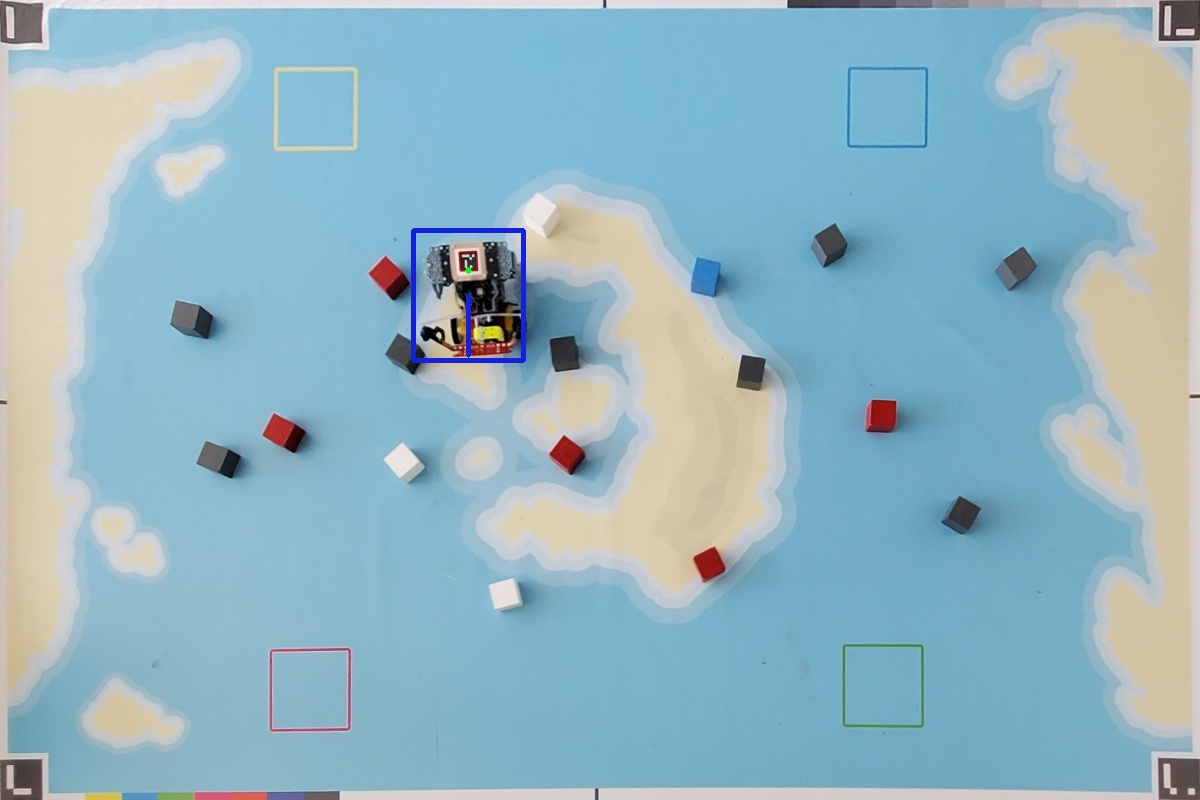
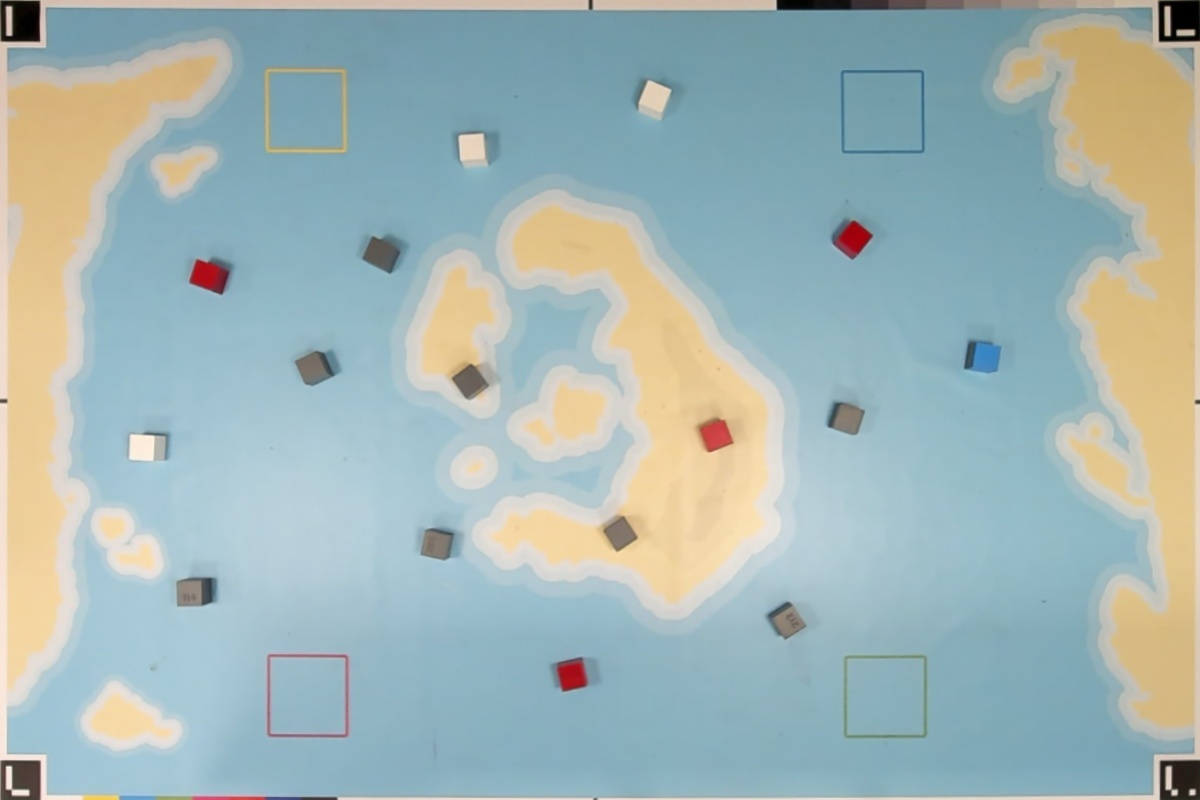
Modifications pour camera final

diff --git a/pythonProject/main.py b/pythonProject/main.py
@@ -78,7 +78,7 @@ def get_mean_hsv(image, center):
     x, y = center
     hsv_image = cv2.cvtColor(image, cv2.COLOR_BGR2HSV)
     circle_mask = np.zeros_like(hsv_image[:, :, 0], dtype=np.uint8)
-    cv2.circle(circle_mask, center, 3, 255, -1)
+    cv2.circle(circle_mask, center, 2, 255, -1)
     mean_hsv = cv2.mean(hsv_image, mask=circle_mask)[:3]
     return tuple(map(round, mean_hsv))
 
@@ -89,7 +89,7 @@ def get_mean_bgr(image, center):
     x, y = center
     bgr_image = image
     circle_mask = np.zeros_like(bgr_image[:, :, 0], dtype=np.uint8)
-    cv2.circle(circle_mask, center, 3, 255, -1)
+    cv2.circle(circle_mask, center, 2, 255, -1)
     mean_bgr = cv2.mean(bgr_image, mask=circle_mask)[:3]
     return tuple(map(round, mean_bgr))
 
@@ -131,19 +131,19 @@ parameters = aruco.DetectorParameters()
 detector = aruco.ArucoDetector(aruco_dict, parameters)
 
 nomImages = (
-    "Images\PhotoCam2_1.jpg",  # cpt =  0
-    "Images\PhotoCarteRobot5.jpg",  # cpt =  1
-    "Images\PhotoCarteRobot9.jpg",  # cpt =  2
-    "Images\PhotoCarteRobot1.jpg",  # cpt =  3
-    "Images\PhotoCarteRobot2.jpg",  # cpt =  4
-    "Images\PhotoCarteRobot3.jpg",  # cpt =  5
-    "Images\PhotoCarteRobot6.jpg",  # cpt =  6
-    "Images\PhotoCarteRobot8.jpg",  # cpt =  7
-    "Images\PhotoCarteRobot10.jpg",  # cpt =  8
-    "Images\ConfigBlocsAvecArucoCote1.jpg",  # cpt =  9
-    "Images\PhotoCarteTelephone5.jpg",  # cpt =  10
-    "Images\PhotoCarteRobot11.jpg",  # cpt =  11
-    "Images\ConfigBlocsAvecArucoDessusLoin1.jpg")  # cpt =  12
+    "Images/Photo_Cam_finale_1.jpg",  # cpt =  0
+    "Images/Photo_Cam_finale_2.jpg",  # cpt =  1
+    "Images/Photo_Cam_finale_3.jpg",  # cpt =  2
+    "Images/Photo_Cam_finale_4.jpg",  # cpt =  3
+    "Images/Photo_Cam_finale_5.jpg",  # cpt =  4
+    "Images/Photo_Cam_finale_6.jpg",  # cpt =  5
+    "Images/Photo_Cam_finale_7.jpg",  # cpt =  6
+    "Images/Photo_Cam_finale_8.jpg",  # cpt =  7
+    "Images/PhotoCarteRobot9.jpg",  # cpt =  8
+    "Images/Photo_Cam_finale_10.jpg",  # cpt =  9
+    "Images/Photo_Cam_finale_11.jpg",  # cpt =  10
+    "Images/Photo_Cam_finale_12.jpg")  # cpt =  11
+
 nbImages = len(nomImages)
 
 frame = cv2.imread(nomImages[0])
@@ -156,7 +156,7 @@ rectangles = [
     ((224, 21), (309, 106), (167, 3, 255))  # Yellow zone
 ]
 
-cpt = 2
+cpt = 5
 
 while True:
     if TEST == 0:
@@ -297,70 +297,47 @@ while True:
 
         cv2.imshow("Cache", vector_img)
 
-        # Open the image
-        image = cv2.imread(
-            "Images/Transformed_image.jpg")
-
-        # Define the dimensions of the centered rectangle
-        crop_width = 1110
-        crop_height = 710
-
-        # Calculate the coordinates for cropping
-        left = (image.shape[1] - crop_width) // 2
-        top = (image.shape[0] - crop_height) // 2
-        right = left + crop_width
-        bottom = top + crop_height
-
-        # Crop the image
-        cropped_image = image[top:bottom, left:right]
-
+        Cal_img = dst.copy()
         # Draw the zones
-        cv2.rectangle(cropped_image, (224, 605), (309, 690), (0, 0, 255), 3)  # Red zone
-        cv2.rectangle(cropped_image, (806, 21), (883, 106), (255, 0, 0), 3)  # Blue zone
-        cv2.rectangle(cropped_image, (806, 605), (883, 690), (0, 255, 0), 3)  # Green zone
-        cv2.rectangle(cropped_image, (224, 21), (309, 106), (0, 242, 255), 3)  # Yellow zone
-
-        # Save the cropped image
-        cv2.imwrite("Images/cropped_frame.jpg", cropped_image)
+        cv2.rectangle(dst, (1150, 50), (1200, 0), (0, 0, 0), -1)
+        cv2.rectangle(dst, (1150, 750), (1200, 800), (0, 0, 0), -1)
+        cv2.rectangle(dst, (0, 0), (50, 50), (0, 0, 0), -1)
+        cv2.rectangle(dst, (0, 750), (50, 800), (0, 0, 0), -1)
+        cv2.rectangle(dst, (0, 0), (1200, 12), (0, 0, 0), -1)
+        cv2.rectangle(dst, (0, 0), (12, 800), (0, 0, 0), -1)
+        cv2.rectangle(dst, (1200, 800), (1188, 0), (0, 0, 0), -1)
+        cv2.rectangle(dst, (1200, 800), (0, 788), (0, 0, 0), -1)
 
         # Adding a Grid
         square_size = 10  # Size of each square in pixels
-        grid_img = dst.copy()
-
-        grid_img = Grid.add_grid(grid_img, square_size)
 
         # Displaying different results
-        '''cv2.imshow('Hitbox', dst)
-        cv2.imshow('Grid', grid_img)
-        cv2.rectangle(grid_img, (0, 0), final_size, (255, 255, 255), -1)
-        grid_img = Grid.add_grid(grid_img, square_size)
-        cv2.imshow('Grid', grid_img)'''
-
-        cv2.imshow('Cropped image', cropped_image)
+        cv2.imshow('Hitbox', dst)
 
         img_copy = dst.copy()
 
         # Define the centers of the circles
-        circle_centers = [(103, 797), (140, 797), (175, 797), (215, 797), (250, 797), (760, 3)]
-        circle_centers_grey = [(802, 3), (839, 3), (877, 3), (914, 3), (950, 3), (987, 3)]
-        circle_radius = 15
+        circle_centers = [(103, 798), (140, 798), (175, 798), (215, 798), (250, 799), (760, 3)]
+        circle_centers_grey = [(802, 2), (839, 2), (877, 2), (914, 2), (950, 2), (987, 2)]
+        circle_radius = 13
         # Get the mean HSV values for each circle
         mean_hsv_values = []
         # Get the mean BGR values for each circle
         mean_bgr_values = []
 
         for center in circle_centers:
-            mean_hsv = get_mean_hsv(dst, center)
+            mean_hsv = get_mean_hsv(Cal_img, center)
             mean_hsv_values.append(mean_hsv)
 
         for center_grey in circle_centers_grey:
-            mean_bgr = get_mean_bgr(dst, center_grey)
+            mean_bgr = get_mean_bgr(Cal_img, center_grey)
             mean_bgr_values.append(mean_bgr)
 
         # Print the mean HSV values
         for i in range(6):
-            '''print(f"Circle {i + 1}: Mean HSV = {mean_hsv_values[i][0]} / {mean_hsv_values[i][1]} / {mean_hsv_values[i][2]}")
-            print(f" Grey Circle {i + 1}: Mean BGR = {mean_bgr_values[i][0]} / {mean_bgr_values[i][1]} / {mean_bgr_values[i][2]}")
+            print(
+                f"Circle {i + 1}: Mean HSV = {mean_hsv_values[i][0]} / {mean_hsv_values[i][1]} / {mean_hsv_values[i][2]}")
+            '''print(f" Grey Circle {i + 1}: Mean BGR = {mean_bgr_values[i][0]} / {mean_bgr_values[i][1]} / {mean_bgr_values[i][2]}")
             print(f"\n")'''
             # Convert HSV mean values to BGR in order to draw on the frame 'img_copy'
             bgr_color = cv2.cvtColor(
@@ -374,97 +351,101 @@ while True:
 
         cv2.imshow("Color calibration", img_copy)
 
-        hsv_img = cv2.cvtColor(cropped_image, cv2.COLOR_BGR2HSV)
+        hsv_img = cv2.cvtColor(dst, cv2.COLOR_BGR2HSV)
+
         for i in range(6):
             # Definition of mask boundaries with the previously acquired mean values
             if i == 1:
                 # Blue
                 bound_lower = np.array(
-                    [mean_hsv_values[i][0] - 8, mean_hsv_values[i][1] - 15, mean_hsv_values[i][2] - 10])
-                bound_upper = np.array([mean_hsv_values[i][0] + 8, 255, 210])
+                    [mean_hsv_values[i][0] - 15, mean_hsv_values[i][1], 0])
+                bound_upper = np.array([mean_hsv_values[i][0] + 30, 255, 255])
                 blue_mask = cv2.inRange(hsv_img, bound_lower, bound_upper)
             elif i == 3:
                 # Magenta
                 bound_lower = np.array(
                     [mean_hsv_values[i][0] - 8, mean_hsv_values[i][1] - 100, 0])
-                bound_upper = np.array([mean_hsv_values[i][0] + 8, 255, 255])
+                bound_upper = np.array([255, 255, 255])
                 magenta_mask = cv2.inRange(hsv_img, bound_lower, bound_upper)
             elif i == 4:
                 # Red
                 bound_lower = np.array(
-                    [mean_hsv_values[i][0] - 20, mean_hsv_values[i][1] - 100, 0])
-                bound_upper = np.array([mean_hsv_values[i][0], 255, 255])
+                    [0, 130, 0])
+                bound_upper = np.array([35, 255, 255])
                 red_mask = cv2.inRange(hsv_img, bound_lower, bound_upper)
             elif i == 5:
                 # White
                 bound_lower = np.array(
-                    [0, 0, mean_hsv_values[i][2] + 10])
-                bound_upper = np.array([180, mean_hsv_values[i][2], 255])
+                    [0, 0, mean_hsv_values[i][2] + 25])
+                bound_upper = np.array([180, 255, 255])
                 white_mask = cv2.inRange(hsv_img, bound_lower, bound_upper)
+
             elif i == 2:
                 # Grey
                 bound_lower = np.array(
                     [mean_bgr_values[0][0] - 25, mean_bgr_values[0][1] - 25, mean_bgr_values[0][2] - 25])
                 bound_upper = np.array(
-                    [mean_bgr_values[3][0] - 5, mean_bgr_values[3][1] - 5, mean_bgr_values[3][1] - 5])
-                grey_mask = cv2.inRange(cropped_image, bound_lower, bound_upper)
+                    [mean_bgr_values[5][0] + 35, mean_bgr_values[5][1] + 35, mean_bgr_values[5][1] + 35])
+                grey_mask = cv2.inRange(dst, bound_lower, bound_upper)
 
-        kernel = np.ones((14, 14), np.uint8)
+        kernel = np.ones((13, 13), np.uint8)
         grey_kernel = np.ones((17, 17), np.uint8)
-        black_mask = cv2.inRange(cropped_image, (0, 0, 0), (1, 1, 1))
+        black_mask = cv2.inRange(dst, (0, 0, 0), (1, 1, 1))
 
         # Definition and displaying of different masks
         black_mask = cv2.morphologyEx(black_mask, cv2.MORPH_CLOSE, kernel)
         black_mask = cv2.morphologyEx(black_mask, cv2.MORPH_OPEN, kernel)
 
-        display_black_mask = cv2.bitwise_and(cropped_image, cropped_image, mask=black_mask)
+        display_black_mask = cv2.bitwise_and(dst, dst, mask=black_mask)
 
         blue_mask = cv2.morphologyEx(blue_mask, cv2.MORPH_CLOSE, kernel)
         blue_mask = cv2.morphologyEx(blue_mask, cv2.MORPH_OPEN, kernel)
 
-        display_blue_mask = cv2.bitwise_and(cropped_image, cropped_image, mask=blue_mask)
+        display_blue_mask = cv2.bitwise_and(dst, dst, mask=blue_mask)
 
         magenta_mask = cv2.morphologyEx(magenta_mask, cv2.MORPH_CLOSE, kernel)
         magenta_mask = cv2.morphologyEx(magenta_mask, cv2.MORPH_OPEN, kernel)
 
-        display_magenta_mask = cv2.bitwise_and(cropped_image, cropped_image, mask=magenta_mask)
+        display_magenta_mask = cv2.bitwise_and(dst, dst, mask=magenta_mask)
 
         red_mask = cv2.morphologyEx(red_mask, cv2.MORPH_CLOSE, kernel)
         red_mask = cv2.morphologyEx(red_mask, cv2.MORPH_OPEN, kernel)
 
-        display_red_mask = cv2.bitwise_and(cropped_image, cropped_image, mask=red_mask)
+        display_red_mask = cv2.bitwise_and(dst, dst, mask=red_mask)
 
         grey_mask = cv2.morphologyEx(grey_mask, cv2.MORPH_CLOSE, grey_kernel)
         grey_mask = cv2.morphologyEx(grey_mask, cv2.MORPH_OPEN, grey_kernel)
 
-        display_grey_mask = cv2.bitwise_and(cropped_image, cropped_image, mask=grey_mask)
+        display_grey_mask = cv2.bitwise_and(dst, dst, mask=grey_mask)
 
         white_mask = cv2.morphologyEx(white_mask, cv2.MORPH_CLOSE, kernel)
         white_mask = cv2.morphologyEx(white_mask, cv2.MORPH_OPEN, kernel)
 
-        display_white_mask = cv2.bitwise_and(cropped_image, cropped_image, mask=white_mask)
+        display_white_mask = cv2.bitwise_and(dst, dst, mask=white_mask)
         # Making a new red mask out of magenta and red
-        red_mask = cv2.bitwise_or(magenta_mask, red_mask)
+        final_red_mask = cv2.bitwise_or(magenta_mask, red_mask)
 
         # Display the blended mask
-        display_red_mask = cv2.bitwise_and(cropped_image, cropped_image, mask=red_mask)
+        display_final_red_mask = cv2.bitwise_and(dst, dst, mask=final_red_mask)
 
-        '''cv2.imshow("Blue mask", display_blue_mask)
-        cv2.imshow("Red mask", display_red_mask)
+        cv2.imshow("Blue mask", display_blue_mask)
+        cv2.imshow("Final red mask", display_final_red_mask)
         cv2.imshow("Grey mask", display_grey_mask)
-        cv2.imshow("White mask", display_white_mask)'''
+        cv2.imshow("White mask", display_white_mask)
+        '''cv2.imshow("Magenta mask", display_magenta_mask)
+        cv2.imshow("Red mask", display_red_mask)'''
 
         # Combine all masks into a dictionary with mask names as keys
         all_masks = {
             'blue': blue_mask,
-            'red': red_mask,
+            'red': final_red_mask,
             'grey': grey_mask,
             'white': white_mask,
             'black': black_mask
         }
 
         # Apply the function to color the boxes
-        img_with_colored_boxes, grid = Grid.color_boxes_with_masks(cropped_image, all_masks)
+        img_with_colored_boxes, grid = Grid.color_boxes_with_masks(dst, all_masks)
         img_with_colored_boxes_corrected = Grid.remove_small_color_groups(img_with_colored_boxes)
         img_with_colored_boxes_corrected = Grid.add_grid(img_with_colored_boxes_corrected, square_size)
         img_JPS = img_with_colored_boxes_corrected.copy()
@@ -486,7 +467,7 @@ while True:
         # Display or save the image with numbers
         cv2.imshow('Grid with Numbers', img_with_colored_boxes_corrected)
 
-        green_zone = JPS_Pathfinding.find_color_centers(grid, 9)
+        '''green_zone = JPS_Pathfinding.find_color_centers(grid, 9)
         blue_cube = JPS_Pathfinding.find_color_centers(grid, 1)
         red_zone = JPS_Pathfinding.find_color_centers(grid, 8)
         yellow_zone = JPS_Pathfinding.find_color_centers(grid, 6)
@@ -497,7 +478,6 @@ while True:
 
         JPS_Pathfinding.jps_algorithm(grid, green_zone[0], blue_cube[0], square_size, img_JPS)
         JPS_Pathfinding.jps_algorithm(grid, blue_cube[0], blue_zone[0], square_size, img_JPS)
-        JPS_Pathfinding.jps_algorithm(grid, (44, 18), (39, 18), square_size, img_JPS)
 
         white_cubes = JPS_Pathfinding.find_color_centers(grid, 3)
 
@@ -522,7 +502,7 @@ while True:
 
         cv2.imshow('JPS* result', img_JPS)
         cv2.imshow('JPS* result 2', img_JPS2)
-        cv2.imshow('JPS* result 3', img_JPS3)
+        cv2.imshow('JPS* result 3', img_JPS3)'''
 
     if cv2.waitKey(1) & 0xFF == ord('q'):
         break

diff --git a/pythonProject/Grid.py b/pythonProject/Grid.py
@@ -59,7 +59,7 @@ def color_boxes_with_masks(grid_img, masks):
     }
 
     # Create an empty grid
-    grid = np.zeros((71, 111), dtype=np.uint8)
+    grid = np.zeros((81, 121), dtype=np.uint8)
 
     # Iterate over each grid cell
     square_size = 10  # Size of each square in pixels
@@ -80,16 +80,16 @@ def color_boxes_with_masks(grid_img, masks):
             grid_x = x // square_size
 
             # Check if the current box falls within the specified regions
-            if 2 <= grid_y <= 9 and 22 <= grid_x <= 29:
+            if 7 <= grid_y <= 14 and 27 <= grid_x <= 34:
                 grid[grid_y, grid_x] = color_values[(167, 3, 255)]  # Mark as yellow zone
                 cv2.rectangle(img_with_colored_boxes, (x, y), (x + square_size, y + square_size), (167, 3, 255), -1)
-            elif 2 <= grid_y <= 9 and 80 <= grid_x <= 87:
+            elif 7 <= grid_y <= 14 and 84 <= grid_x <= 91:
                 grid[grid_y, grid_x] = color_values[(255, 88, 2)]  # Mark as blue zone
                 cv2.rectangle(img_with_colored_boxes, (x, y), (x + square_size, y + square_size), (255, 88, 2), -1)
-            elif 60 <= grid_y <= 67 and 22 <= grid_x <= 29:
+            elif 65 <= grid_y <= 72 and 27 <= grid_x <= 34:
                 grid[grid_y, grid_x] = color_values[(1, 37, 255)]  # Mark as red zone
                 cv2.rectangle(img_with_colored_boxes, (x, y), (x + square_size, y + square_size), (1, 37, 255), -1)
-            elif 60 <= grid_y <= 67 and 80 <= grid_x <= 87:
+            elif 65 <= grid_y <= 72 and 84 <= grid_x <= 91:
                 grid[grid_y, grid_x] = color_values[(23, 143, 26)]  # Mark as green zone
                 cv2.rectangle(img_with_colored_boxes, (x, y), (x + square_size, y + square_size), (23, 143, 26), -1)
             else:
